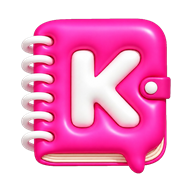
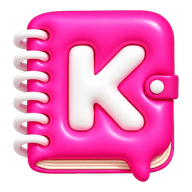
KOMI-Diary 카드 아이콘: 흰 사각 박스 제거 (투명 PNG + 알파 그림자, SW v7)

diff --git a/apps.js b/apps.js
@@ -5,7 +5,7 @@
    status : 'live' (지금 사용 가능) | 'soon' (준비 중, url 없이도 됨)
    url    : 카드 전체를 눌렀을 때 열리는 주소
    icon / icon2x : 카드 아이콘(192·512px)
-   iconBg : 아이콘 뒤 배경(투명 PNG 대비) — 생략하면 흰색
+   iconBg : 아이콘 뒤 배경(투명 PNG 대비) — 생략하면 흰색, 'transparent'면 흰 박스 없이 그림자만
 */
 window.AJAK_STUDIO_APPS = [
   {
@@ -43,7 +43,7 @@ window.AJAK_STUDIO_APPS = [
     url: 'https://ajak-75.github.io/KOMI-Diary/',
     icon: './apps/komi-diary.png',
     icon2x: './apps/komi-diary-512.png',
-    iconBg: '#FFFFFF',
+    iconBg: 'transparent',
     desc: {
       ko: '전 세계 케미(Kemi)들이 모이는 K-컬처 팬덤 다이어리 · 모모 샵 · K-스타 케미 궁합 · 16개국어와 전 세계 언어를 자동 번역합니다.',
       en: 'A K-culture fandom diary where Kemis around the world meet — Momo Shop, K-star compatibility, and automatic translation into 16 languages and beyond.',

diff --git a/app.js b/app.js
@@ -206,11 +206,12 @@
       var badge = live
         ? '<span class="badge"><span class="dot"></span>' + esc(t('live')) + '</span>'
         : '<span class="badge badge--soon">' + esc(t('soon')) + '</span>';
+      var noBox = app.iconBg === 'transparent';   /* 투명 아이콘: 흰 사각 박스 없이 */
       var icon = app.icon
-        ? '<img class="app-icon" src="' + esc(app.icon) + '"' +
+        ? '<img class="app-icon' + (noBox ? ' app-icon--nobox' : '') + '" src="' + esc(app.icon) + '"' +
           (app.icon2x ? ' srcset="' + esc(app.icon) + ' 1x, ' + esc(app.icon2x) + ' 2x"' : '') +
           ' alt="' + esc(app.name) + '" width="60" height="60" loading="lazy" decoding="async"' +
-          (app.iconBg ? ' style="background:' + esc(app.iconBg) + '"' : '') + '>'
+          (app.iconBg && !noBox ? ' style="background:' + esc(app.iconBg) + '"' : '') + '>'
         : '<div class="app-icon"></div>';
 
       html += '<' + tag + ' class="card reveal' + (live ? '' : ' card--soon') + '"' + attrs + '>' +

diff --git a/index.html b/index.html
@@ -28,7 +28,7 @@
 <link rel="icon" href="./icons/favicon-32.png" sizes="32x32" type="image/png">
 <link rel="icon" href="./icons/icon-192.png" sizes="192x192" type="image/png">
 <link rel="apple-touch-icon" href="./icons/apple-touch-icon.png">
-<link rel="stylesheet" href="./styles.css?v=5">
+<link rel="stylesheet" href="./styles.css?v=6">
 </head>
 <body id="top">
 <a class="skip-link" href="#apps">본문으로 건너뛰기</a>
@@ -110,7 +110,7 @@
 </script>
 
 <script src="./i18n.js?v=2"></script>
-<script src="./apps.js?v=3"></script>
-<script src="./app.js?v=3"></script>
+<script src="./apps.js?v=4"></script>
+<script src="./app.js?v=4"></script>
 </body>
 </html>

diff --git a/styles.css b/styles.css
@@ -210,6 +210,12 @@ a.card:active { transform: translateY(-1px); }
   box-shadow: 0 8px 18px -12px rgba(14,14,16,.45);
   background: #fff;
 }
+/* 아이콘 자체가 투명 PNG일 때: 흰 사각 박스·테두리 없이 3D 모양만 남기고,
+   그림자는 알파 윤곽을 따라간다. */
+.app-icon--nobox {
+  border: none; border-radius: 0; background: transparent; box-shadow: none;
+  filter: drop-shadow(0 6px 12px rgba(14,14,16,.15));
+}
 .badge {
   display: inline-flex; align-items: center; gap: 6px;
   height: 24px; padding-inline: 10px; border-radius: 999px;

diff --git a/sw.js b/sw.js
@@ -1,7 +1,7 @@
 /* Ajak Studio — sw.js
    셸(HTML·CSS·JS·아이콘)을 캐시해 두고, 문서는 네트워크 우선(실패 시 캐시)으로 연다.
    번역 API 같은 외부 요청은 건드리지 않는다. */
-const VER = 'ajak-studio-v6';
+const VER = 'ajak-studio-v7';
 const SHELL = [
   './',
   './index.html',

diff --git a/tools/make-icons.py b/tools/make-icons.py
@@ -106,11 +106,39 @@ def shadowed(src, box, radius_ratio=0.24, pad=22):
     sh.alpha_composite(rounded, (pad, pad))
     return sh
 
+def shadowed_alpha(src, box, pad=30, blur=13, strength=95, offset=9, fit=True):
+    """투명 PNG용: 사각 마스크 없이 알파(실루엣) 윤곽을 따라 은은한 그림자를 깔고 합성한다.
+    fit=True면 투명 여백을 잘라내 실루엣이 상자 크기에 꽉 차게 맞춘다."""
+    w, h = box
+    if fit:
+        bb = src.getchannel("A").point(lambda v: 255 if v > 8 else 0).getbbox()
+        if bb:
+            src = src.crop(bb)
+        scale = min(w / src.width, h / src.height)
+        src = src.resize((max(1, round(src.width * scale)), max(1, round(src.height * scale))), Image.LANCZOS)
+        fitted = Image.new("RGBA", (w, h), (0, 0, 0, 0))
+        fitted.alpha_composite(src, ((w - src.width) // 2, (h - src.height) // 2))
+        src = fitted
+    else:
+        src = src.resize((w, h), Image.LANCZOS)
+    alpha = src.getchannel("A")
+    mask = Image.new("L", (w + pad * 2, h + pad * 2), 0)
+    mask.paste(alpha.point(lambda v: v * strength // 255), (pad, pad + offset))
+    mask = mask.filter(ImageFilter.GaussianBlur(blur))
+    sh = Image.new("RGBA", mask.size, (0, 0, 0, 0))
+    sh.putalpha(mask)
+    sh.alpha_composite(src, (pad, pad))
+    return sh
+
 try:
     app_a = Image.open(os.path.join(ROOT, "..", "diary", "icons", "icon-192.png")).convert("RGBA")
-    app_k = Image.open(os.path.join(ROOT, "..", "KOMI-Diary", "icons", "icon-192.png")).convert("RGBA")
+    # KOMI-Diary는 흰 배경 없는 투명 로고를 써서 사각 그림자 상자가 생기지 않게 한다.
+    komi_logo = os.path.join(ROOT, "..", "KOMI-Diary", "img", "komi-diary-logo.png")
+    if not os.path.exists(komi_logo):
+        komi_logo = os.path.join(ROOT, "..", "KOMI-Diary", "icons", "icon-192.png")
+    app_k = Image.open(komi_logo).convert("RGBA")
     a = shadowed(app_a, (116, 116))
-    k = shadowed(app_k, (116, 116))
+    k = shadowed_alpha(app_k, (116, 116))
     og.paste(a, (772, 236), a)
     og.paste(k, (952, 236), k)
     text((794, 402), "Ajak", f_small, fill=(110, 110, 110))

diff --git a/README.md b/README.md
@@ -29,7 +29,7 @@
   url: 'https://ajak-75.github.io/my-app/',
   icon: './apps/my-app.png',          // 192px
   icon2x: './apps/my-app-512.png',    // 512px (선택)
-  iconBg: '#FFFFFF',
+  iconBg: '#FFFFFF',                  // 아이콘 뒤 타일 배경색. 'transparent'면 흰 박스 없이 그림자만
   desc: {
     ko: '한 줄 소개',
     en: 'One-line description'
@@ -57,3 +57,7 @@ python3 -m http.server 8080   # 이 폴더에서
 
 `main` 브랜치 루트를 그대로 올리면 GitHub Pages(유저 사이트)가 `https://ajak-75.github.io/`로 서비스한다.
 `apps/` 아이콘을 바꾸면 `sw.js`의 `VER`를 올려 캐시를 갱신한다.
+
+아이콘 PNG에 알파(투명)가 있으면 `iconBg: 'transparent'`로 둔다. 카드에서는 흰 사각 타일·테두리 없이
+`filter: drop-shadow(...)`만 아이콘 윤곽을 따라가고, OG 커버(`tools/make-icons.py`)도 사각 그림자 대신
+alpha 실루엣 그림자를 쓴다.
